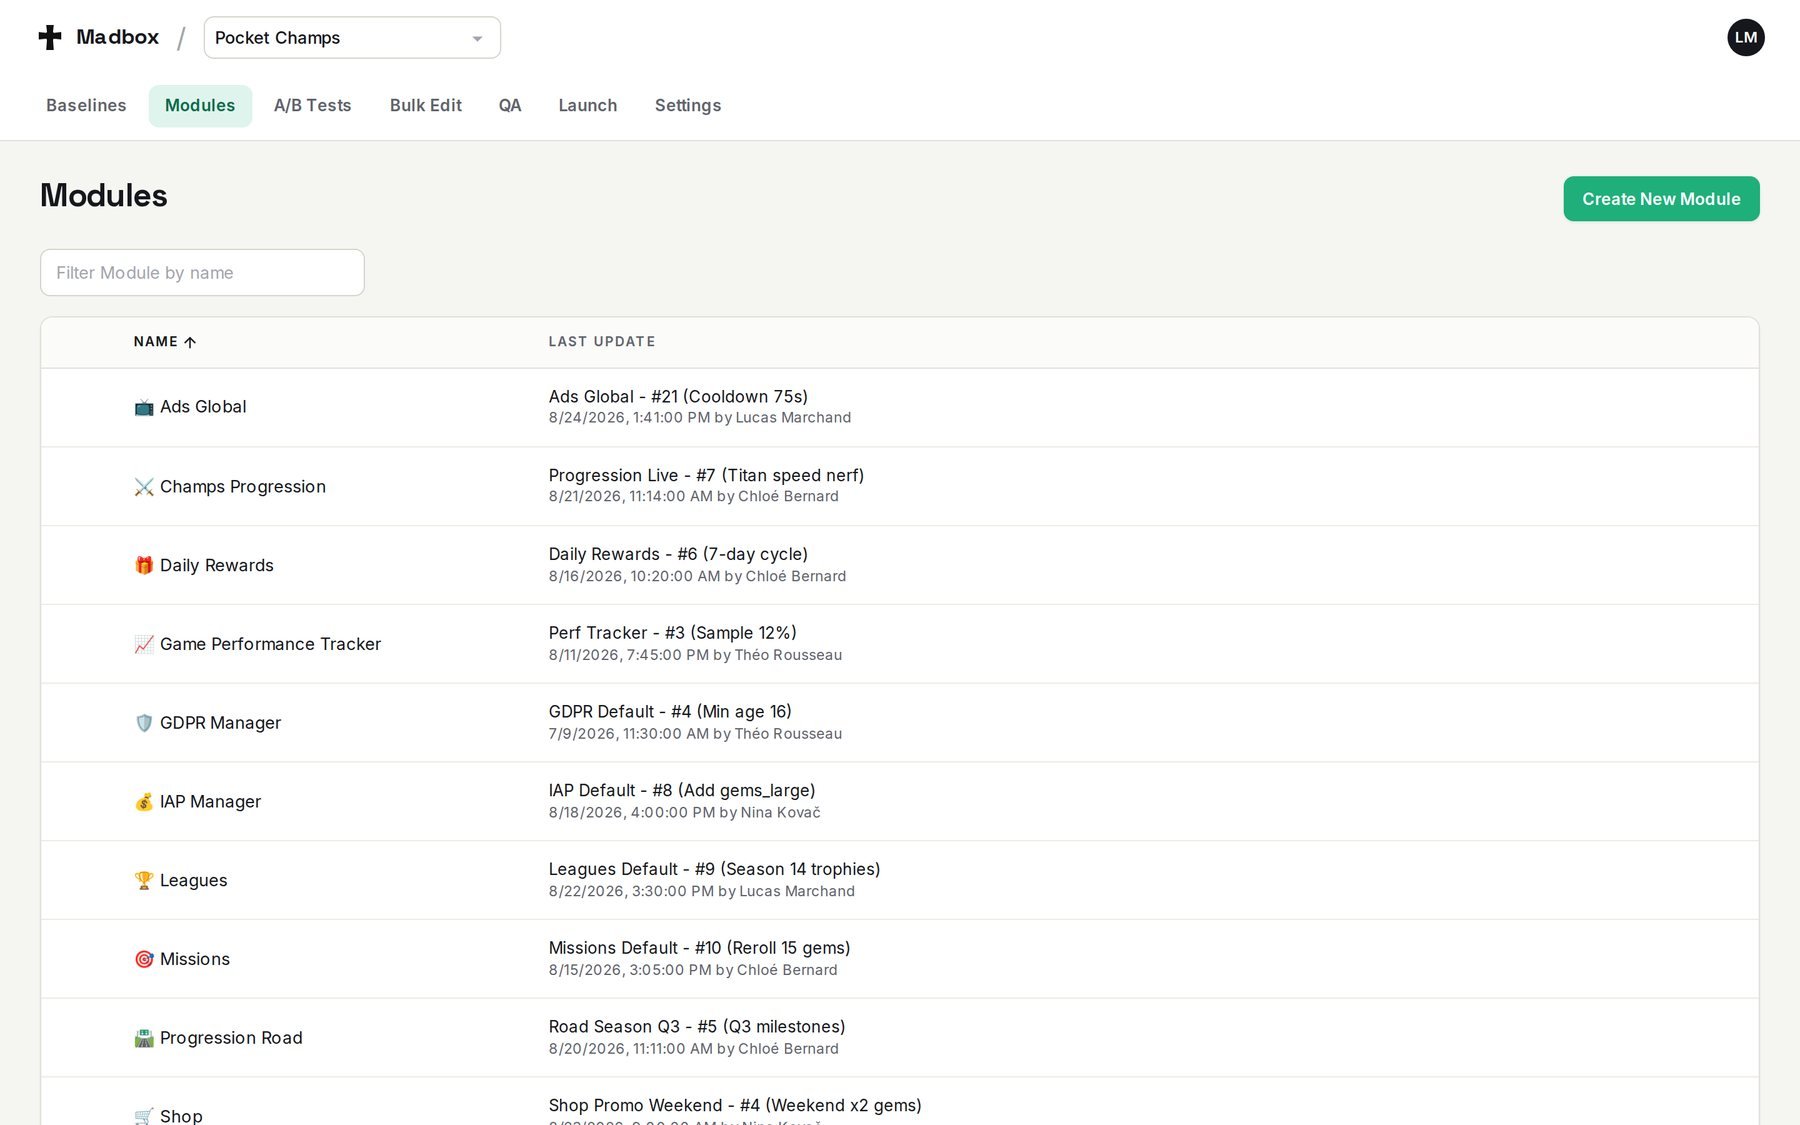
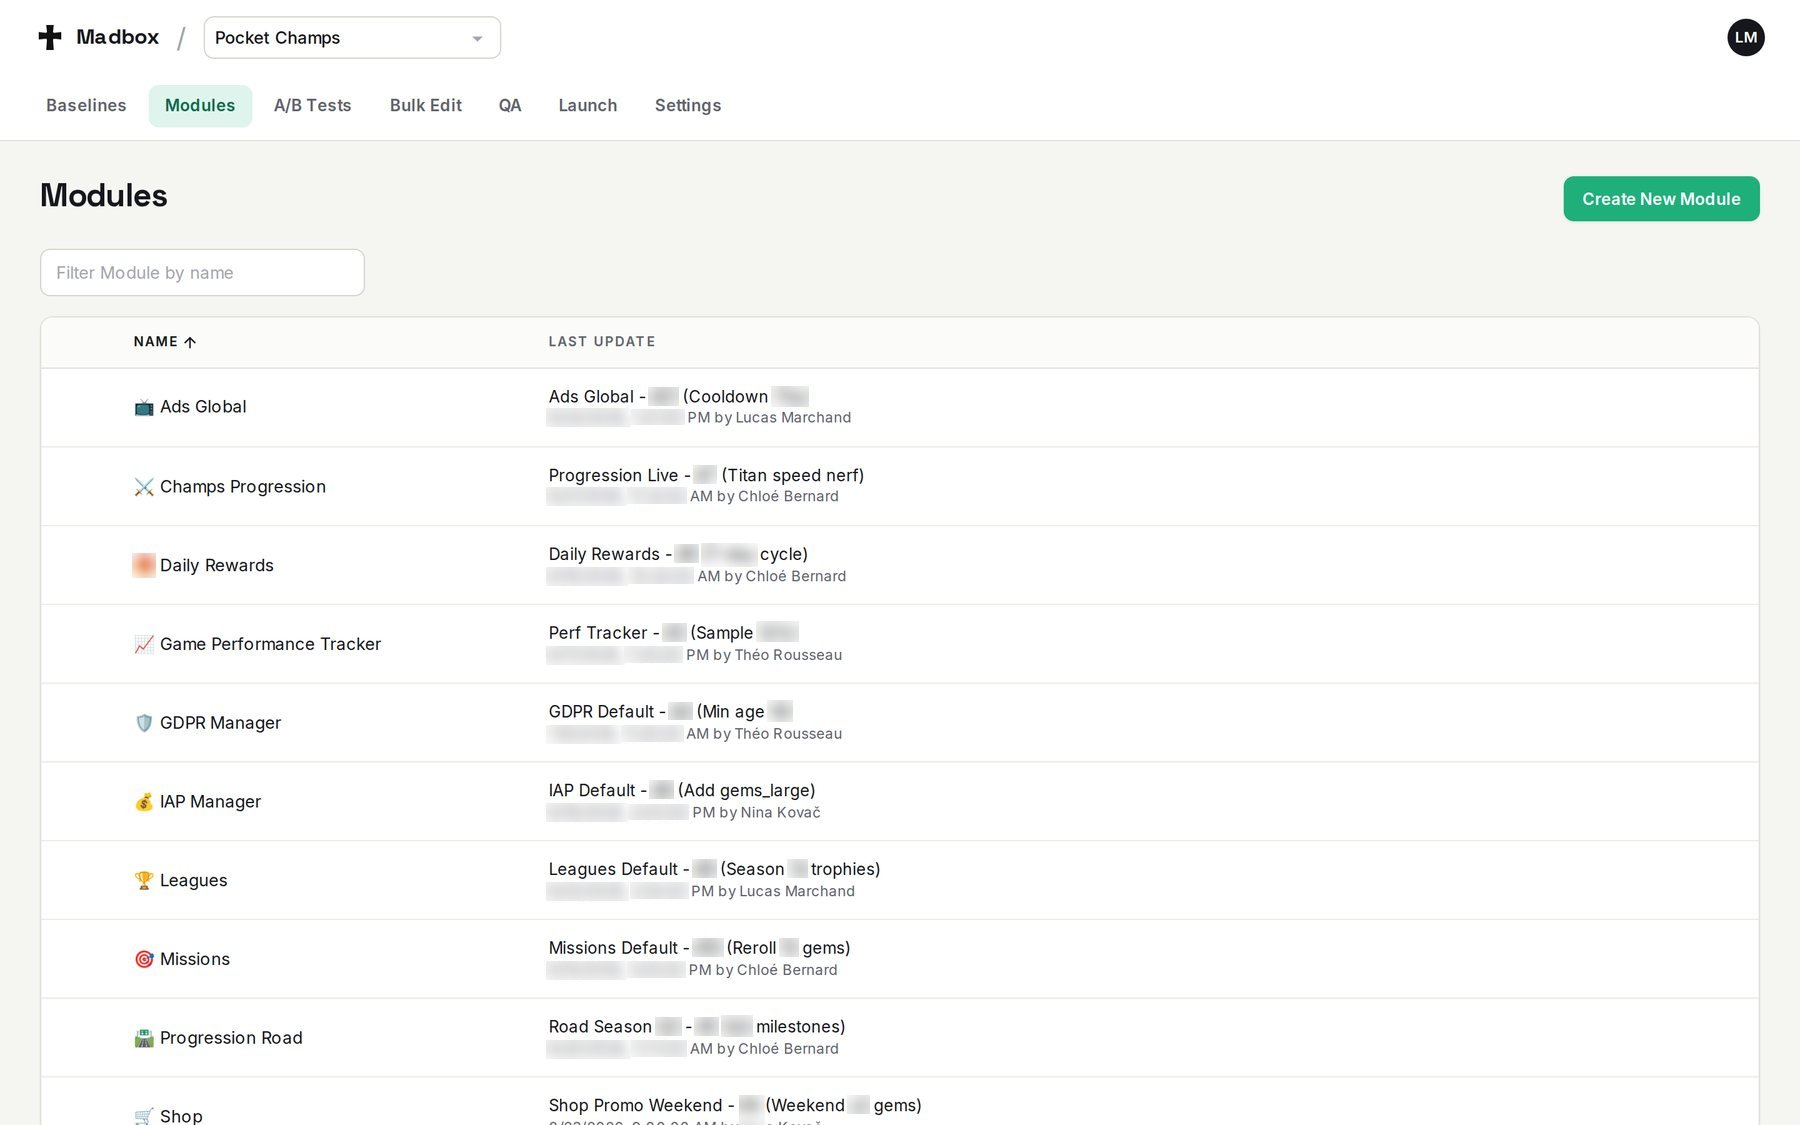
Blur numbers in screenshots; numbers-first Test Hub impact
Claude-Session: https://claude.ai/code/session_01JyPkCVaD7Y1XA743XSCwrJ

diff --git a/src/app/components/test-hub/TestHubImpact.tsx b/src/app/components/test-hub/TestHubImpact.tsx
@@ -2,129 +2,82 @@ import React from "react";
 
 const ACCENT = "#3f8f8a";
 
-const success = [
-  {
-    icon: "🙋",
-    title: "Self-Serve Answers",
-    text: "Game Managers go to Test Hub first, not to Looker, Slack or the Analytics team, for any routine question about a running test.",
-    benefits: ["Less dependency on Analytics", "Answers in minutes", "Analysts free for real analysis"],
-  },
-  {
-    icon: "⚡",
-    title: "Faster Go/No-Go",
-    text: "Everything needed to decide whether to ship sits in one view, with the right Looker dashboards one click away.",
-    benefits: ["One link per test", "Consistent KPIs per test type", "Release decisions in hours"],
-  },
-  {
-    icon: "🗂",
-    title: "Knowledge That Stays",
-    text: "Every test lives on the calendar with its dates, filters and context, so “what was live in March, and why did we ship?” has an answer.",
-    benefits: ["Shared history of tests", "Context linked to each test", "Easy onboarding"],
-  },
+const headline = [
+  { value: "4 months", label: "from kickoff to launch" },
+  { value: "3×", label: "faster than the ~1-year average for internal tools at Madbox" },
+  { value: "2–10 → 1", label: "dashboards shared per test each day, replaced by one link" },
+  { value: "1 day → 0", label: "wait for a new test to appear: now it shows up in real time" },
 ];
 
-const stats = [
-  { value: "4 months", label: "from kickoff to launch, for an internal tool at Madbox" },
-  { value: "2–10 → 1", label: "dashboards shared per test each day, replaced by one link" },
-  { value: "4", label: "test types covered with a single, consistent pattern" },
-  { value: "Real time", label: "tests appear the moment they are added, instead of the next day" },
+const usage = [
+  { value: "2 clicks", label: "to see every test that was live on any given day" },
+  { value: "2 min", label: "morning scan of all active tests, 3 KPIs each" },
+  { value: "4", label: "test types covered by one consistent layout" },
+  { value: "45 days", label: "of ended tests kept one click away" },
+];
+
+const next = [
+  { value: "2 h", label: "target from test live to release or rollback decision (v1.5)" },
+  { value: "10 / 25 / 50%", label: "phased rollouts supported for live games" },
+  { value: "1 click", label: "to Bayesian A/B results, instead of manual lookup" },
+  { value: "1", label: "source of truth for test configuration and release schedule" },
 ];
 
 const learnings = [
   {
     title: "Trust Before Features",
-    text: "We postponed the V0 launch by a week because some numbers still didn’t match Looker. Launching on time with wrong data would have repeated exactly what killed the old dashboard.",
+    text: "We delayed V0 by 1 week because some numbers didn’t match Looker yet. Wrong data is what killed the previous dashboard.",
   },
   {
     title: "A Tool Is Only as Good as Its Inputs",
-    text: "Many issues after launch came from the spreadsheet feeding Test Hub: a missing end date, “iOS” instead of “ios”. I wrote a Team Playbook with the rules and processes that prevent pipeline outages and broken data.",
+    text: "Most post-launch issues came from the spreadsheet feeding Test Hub. I wrote a Team Playbook to prevent pipeline outages and broken data.",
   },
   {
     title: "Scope Is a Design Decision",
-    text: "Saying no to creative data in the MVP is what made a four-month launch possible. The roadmap keeps those requests visible without letting them block the release.",
+    text: "Keeping creative data out of the MVP is what made a 4-month launch possible.",
   },
 ];
 
-const quotes = [
-  {
-    who: "Game Manager · Main Stakeholder",
-    text: "Test Hub was the fastest project ever built at Madbox: four months, when the average is about a year. And it’s really well built, scalable, with an incredible UX.",
-  },
-  {
-    who: "Game Manager",
-    text: "That’s real nice! Right on time for 4.2.",
-  },
-];
+function StatGrid({ items }: { items: { value: string; label: string }[] }) {
+  return (
+    <div className="grid grid-cols-2 md:grid-cols-4 gap-6">
+      {items.map((s) => (
+        <div key={s.label} className="bg-white border border-gray-100 rounded-lg p-6 space-y-3">
+          <p className="text-3xl font-light tracking-tight" style={{ color: ACCENT }}>
+            {s.value}
+          </p>
+          <p className="text-sm text-gray-600 leading-relaxed">{s.label}</p>
+        </div>
+      ))}
+    </div>
+  );
+}
 
 export function TestHubImpact() {
   return (
     <div className="space-y-16">
-      {/* Definition of Success */}
-      <div>
-        <h2 className="text-3xl font-light tracking-tight text-gray-900 mb-8">
-          Definition of Success
-        </h2>
-        <p className="text-gray-600 leading-relaxed mb-8">
-          Test Hub is live and used by the game teams. Success means a Game
-          Manager can answer any question about a running test without opening
-          a Looker dashboard or pinging the Analytics team.
-        </p>
-        <div className="grid grid-cols-1 md:grid-cols-3 gap-8">
-          {success.map((s) => (
-            <div key={s.title} className="bg-white border border-gray-100 rounded-lg p-8 space-y-4">
-              <div
-                className="w-12 h-12 rounded-full flex items-center justify-center"
-                style={{ backgroundColor: `${ACCENT}1a` }}
-              >
-                <span className="text-2xl">{s.icon}</span>
-              </div>
-              <h3 className="text-xl font-light text-gray-900">{s.title}</h3>
-              <p className="text-sm text-gray-600 leading-relaxed">{s.text}</p>
-              <div className="pt-4 border-t border-gray-100">
-                <p className="text-xs uppercase tracking-wider mb-2" style={{ color: ACCENT }}>
-                  Benefits
-                </p>
-                <ul className="text-sm text-gray-600 space-y-1">
-                  {s.benefits.map((b) => (
-                    <li key={b}>• {b}</li>
-                  ))}
-                </ul>
-              </div>
-            </div>
-          ))}
-        </div>
-      </div>
-
       {/* Results */}
       <div>
         <h2 className="text-3xl font-light tracking-tight text-gray-900 mb-8">
           Results
         </h2>
-        <div className="grid grid-cols-2 md:grid-cols-4 gap-6 mb-8">
-          {stats.map((s) => (
-            <div key={s.label} className="bg-white border border-gray-100 rounded-lg p-6 space-y-3">
-              <p className="text-3xl font-light tracking-tight" style={{ color: ACCENT }}>
-                {s.value}
-              </p>
-              <p className="text-sm text-gray-600 leading-relaxed">{s.label}</p>
-            </div>
-          ))}
-        </div>
-        <div className="grid grid-cols-1 md:grid-cols-2 gap-8">
-          {[
-            ["Shipped and adopted", "Launched to the New Games teams and covering all their active tests, with a dedicated channel where users report issues and request improvements."],
-            ["Growing into live games", "v1.5 extends Test Hub to live games, starting with Pocket Champs: flexible rollouts, one-click Bayesian A/B results and a single source of truth for test configuration."],
-          ].map(([title, text]) => (
-            <div
-              key={title}
-              className="border-l-4 p-8"
-              style={{ backgroundColor: `${ACCENT}0d`, borderColor: ACCENT }}
-            >
-              <h4 className="text-2xl font-light text-gray-900 mb-2">{title}</h4>
-              <p className="text-gray-600 leading-relaxed">{text}</p>
-            </div>
-          ))}
-        </div>
+        <StatGrid items={headline} />
+      </div>
+
+      {/* Day-to-day */}
+      <div>
+        <h2 className="text-3xl font-light tracking-tight text-gray-900 mb-8">
+          Day-to-Day Impact
+        </h2>
+        <StatGrid items={usage} />
+      </div>
+
+      {/* v1.5 */}
+      <div>
+        <h2 className="text-3xl font-light tracking-tight text-gray-900 mb-8">
+          Next: Live Games (v1.5)
+        </h2>
+        <StatGrid items={next} />
       </div>
 
       {/* Learnings */}
@@ -147,28 +100,23 @@ export function TestHubImpact() {
         <h2 className="text-3xl font-light tracking-tight text-gray-900 mb-8">
           User Feedback
         </h2>
-        <p className="text-gray-600 leading-relaxed mb-8">
-          What Game Managers said after Test Hub went live.
-        </p>
-        <div className="space-y-6">
-          {quotes.map((q) => (
-            <div key={q.text} className="bg-[#f5f6f6] rounded-2xl p-10 shadow-sm relative">
-              <div className="absolute top-6 left-6 text-6xl text-[#7a9b7c] opacity-20 font-serif">
-                "
-              </div>
-              <div className="relative z-10 space-y-2">
-                <p className="text-xs uppercase tracking-wider text-gray-400 text-center">
-                  {q.who}
-                </p>
-                <p className="text-2xl italic text-gray-800 font-light leading-relaxed text-center">
-                  {q.text}
-                </p>
-              </div>
-              <div className="absolute bottom-6 right-6 text-6xl text-[#7a9b7c] opacity-20 font-serif">
-                "
-              </div>
-            </div>
-          ))}
+        <div className="bg-[#f5f6f6] rounded-2xl p-10 shadow-sm relative">
+          <div className="absolute top-6 left-6 text-6xl text-[#7a9b7c] opacity-20 font-serif">
+            "
+          </div>
+          <div className="relative z-10 space-y-2">
+            <p className="text-xs uppercase tracking-wider text-gray-400 text-center">
+              Game Manager · Main Stakeholder
+            </p>
+            <p className="text-2xl italic text-gray-800 font-light leading-relaxed text-center">
+              Test Hub was the fastest project ever built at Madbox: four
+              months, when the average is about a year. And it&apos;s really
+              well built, scalable, with an incredible UX.
+            </p>
+          </div>
+          <div className="absolute bottom-6 right-6 text-6xl text-[#7a9b7c] opacity-20 font-serif">
+            "
+          </div>
         </div>
       </div>
     </div>
